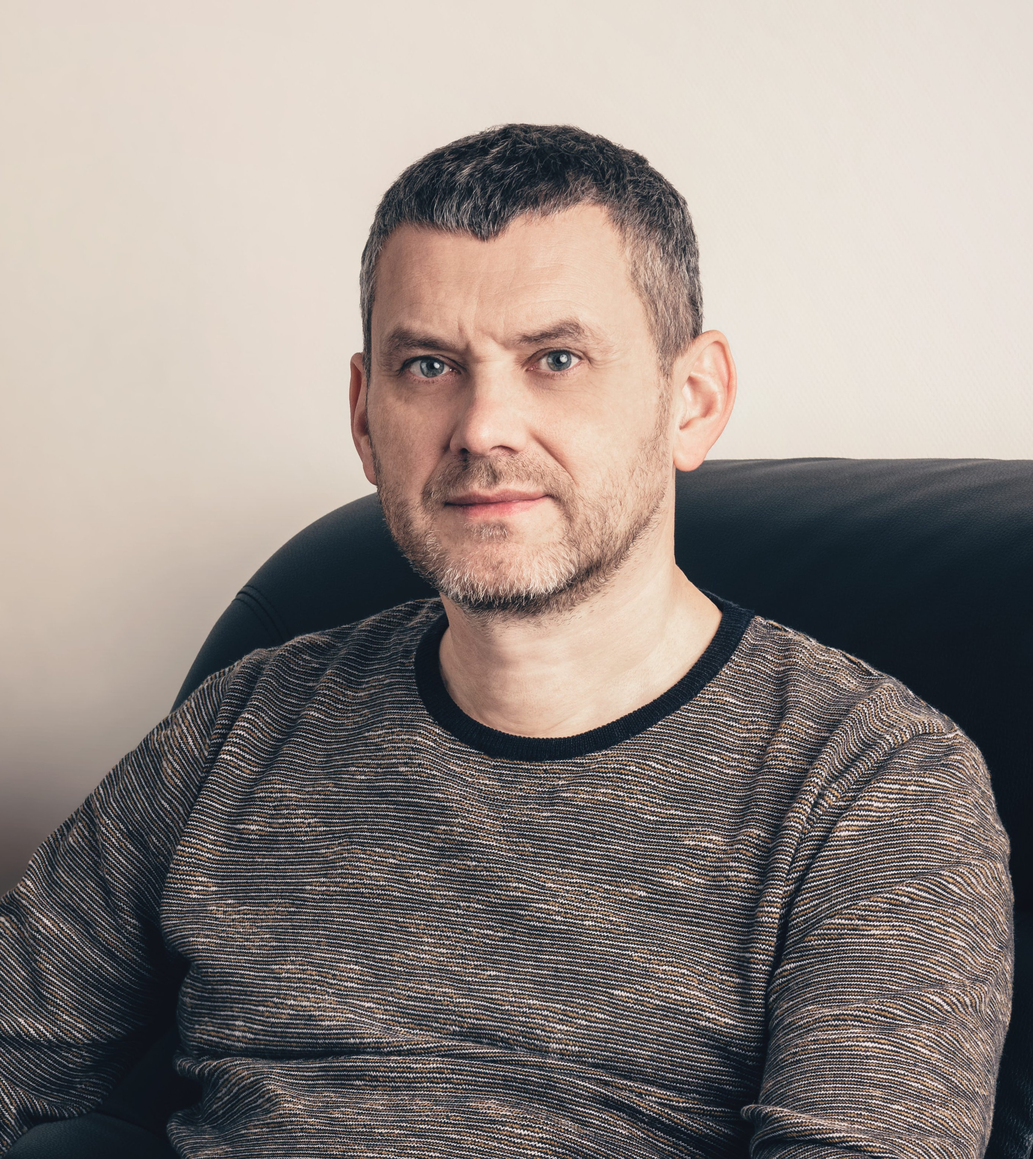
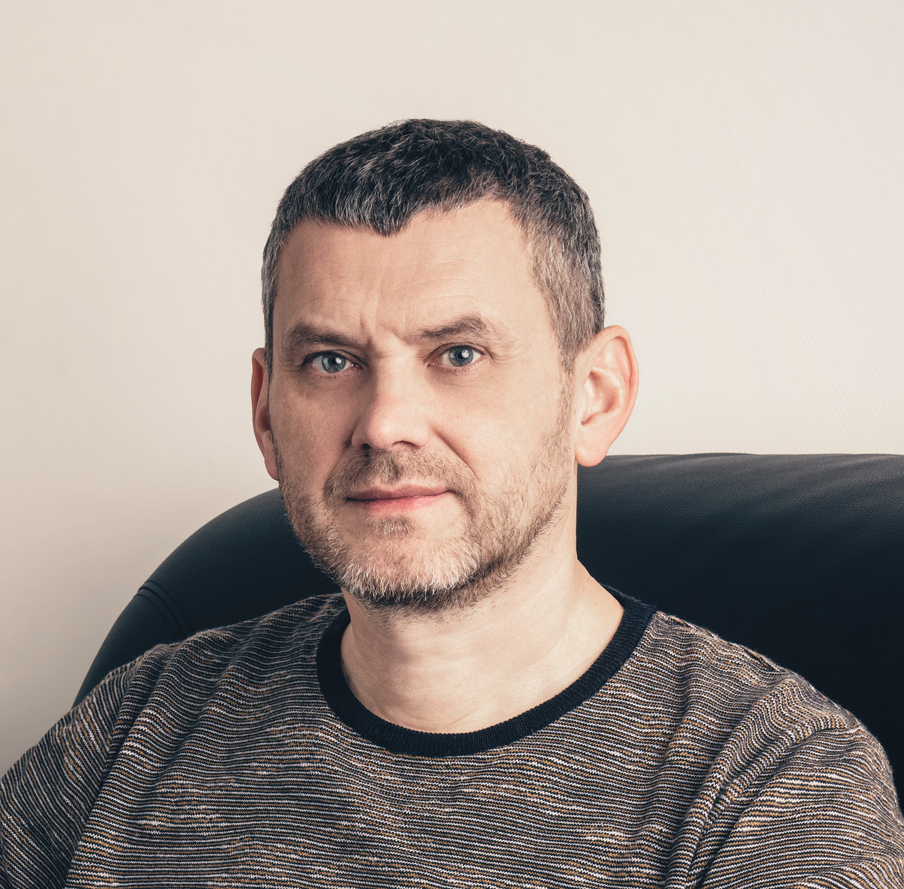
update content

diff --git a/src/pages/goalAndMission/goal.html b/src/pages/goalAndMission/goal.html
@@ -127,8 +127,8 @@
                 <div class="goal__info">
                     <h1 class="anotherTittle">Цель и миссия</h1>
                     <div class="goal__wrap">
-                        <div class="img"><img src="./027d56fc34d6af0f2c1281116e659585.jpg" alt="goal" width="600" height="320"></div>
                         <div class="text__wrap">
+                            <div class="img"><img src="./027d56fc34d6af0f2c1281116e659585.jpg" alt="goal" width="600" height="320"></div>
                             <div class="goal__inner">
                                 <h2 class="anotherSubtittle">Цель</h2>
                             <p class="anotherDescr">Деятельность, направленная на создание и поддержание благоприятных условий для функционирования и развития предприятий-участников, а также защиту их экономических интересов</p>
@@ -137,6 +137,21 @@
                                 <h2 class="anotherSubtittle">Миссия</h2>
                             <p class="anotherDescr">Развитие автомобильного рынка в Республике Беларусь через укрепление института официального автомобильного дилерства и создание белорусского объединения официальных автомобильных импортеров, дилеров и производителей.</p>
                             </div>
+                        </div>
+                        <div class="second__text__wrap">
+                            <div class="goal__inner">
+                                <h2 class="anotherSubtittle">Для достижения цели Ассоциация определяет следующие основные задачи и направления деятельности:</h2>
+                                <p class="anotherDescr"> - мониторинг законодательства в сфере автомобильного бизнеса и участие в подготовке предложений и изменений нормативных правовых актов, регулирующих деятельность автомобильных дилеров;</p>
+                                <p class="anotherDescr"> - представление интересов участников Ассоциации в предпринимательских союзах и объединениях;</p>
+                                <p class="anotherDescr"> - взаимодействие со средствами массовой информации по вопросам автомобильного рынка;</p>
+                                <p class="anotherDescr"> - организация и проведение обучающих семинаров, консультаций для специалистов компаний-членов Ассоциации;</p>
+                                <p class="anotherDescr"> - сбор, анализ и распространение среди членов Ассоциации статистической и аналитической информации по автомобильному рынку Республики Беларусь;</p>
+                                <p class="anotherDescr"> - информационного обмена с автомобильными Ассоциациями других государств;</p>
+                                <p class="anotherDescr"> - организационная поддержка проведения автомобильных выставок, конференций и конкурсов;</p>
+                                <p class="anotherDescr"> - участие в защите прав членов Ассоциации, представление их интересов в государственных и иных органах, а также в создаваемых ими рабочих группах и координационных советах;</p>
+                                <p class="anotherDescr"> - сотрудничество с органами государственного и местного управления по фактам нарушения законодательства Республики Беларусь в области предпринимательской деятельности, монополизма и недобросовестной конкуренции.</p>
+                            </div>
+                        </div>
 
 
                         </div>

diff --git a/src/pages/forPartners/forpartners.html b/src/pages/forPartners/forpartners.html
@@ -129,16 +129,16 @@
                         <div class="text__wrapper">
                             <div class="text__inner">
                                 <h2 class="anotherSubtittle">Обучение</h2>
-                                <p class="anotherDescr">Cовместная организация и проведение обучающих семинаров и консультаций для специалистов компаний-членов БАА с возможностью рекламы своей деятельности (продукции) в ходе таких мероприятий (с оплатой добровольных и (или) целевых взносов);</p>
+                                <p class="anotherDescr">Возможна совместная организация и проведение обучающих семинаров и консультаций для специалистов компаний-членов БАА с возможностью рекламы своей деятельности (продукции) в ходе таких мероприятий (с оплатой добровольных и (или) целевых взносов).</p>
                             </div>
                             <div class="text__inner">
                                 <h2 class="anotherSubtittle">Статистика</h2>
-                                <p class="anotherDescr">Приобретение у УП «БАА-Консалт» официальной статистической и аналитической информации по автомобильному рынку Республики Беларусь (для заключения договоров на приобретение официальной статистической и аналитической информации по автомобильному рынку Республики Беларусь обращайтесь в дочернее предприятие БАА – УП «БАА-Консалт» (г.Минск, пр.Жукова, 44, офис 513, e-mail: remark@remark.by).);</p>
+                                <p class="anotherDescr">Для заключения договоров на приобретение официальной статистической и аналитической информации по автомобильному рынку Республики Беларусь обращайтесь в дочернее предприятие БАА – УП «БАА-Консалт» (г.Минск, пр.Жукова, 44, офис 513,<br> e-mail: remark@remark.by).</p>
                                 <p class="anotherDescr">Предоставление информации о статистике продаж автомобилей государственным органам осуществляется по запросам на безвозмездной основе.</p>
                             </div>
                             <div class="text__inner">
                                 <h2 class="anotherSubtittle">Реклама</h2>
-                                <p class="anotherDescr">Возможность размещения своей рекламы на материалах статистики, реализуемой УП «БАА-Консалт» третьим лицам.</p>
+                                <p class="anotherDescr">Предлагаем рассмотреть возможность размещения своей рекламы на материалах статистики, реализуемой УП «БАА-Консалт» третьим лицам.</p>
                             </div>
                         </div>
                     </div>

diff --git a/src/pages/pressa/pressa.html b/src/pages/pressa/pressa.html
@@ -132,7 +132,7 @@
                             <h2 class="anotherSubtittle">Основные правила взаимодействия с СМИ:</h2>
                             <p class="anotherDescr">– официальные заявления от имени Ассоциации по вопросам автомобильного бизнеса может делать Председатель правления БАА;</p>
                             <p class="anotherDescr">– при цитировании и перепечатке материалов с сайта БАА ссылка на сайт обязательна;</p>
-                            <p class="anotherDescr">– анонс публичных мероприятий, планируемых к проведению в рамках Ассоциации и др.</p>
+                            <p class="anotherDescr">– анонс публичных мероприятий, планируемых к проведению в рамках Ассоциации, публикуется на настоящем сайте в разделе «Новости».</p>
                             <p class="anotherDescr">Для осуществления подписки на рассылку новостей БАА наведите курсор мыши на кнопку «НОВОСТИ» на главной странице сайта.</p>
                         </div>
                     </div>

diff --git a/src/pages/goalAndMission/goal.css b/src/pages/goalAndMission/goal.css
@@ -11,20 +11,28 @@
 }
 .goal__wrap {
     display: flex;
-    align-items: center;
     justify-content: space-between;
 }
 .goal__inner:first-child {
     margin-bottom: 40px;
 }
-.text__wrap {
-    padding-left: 50px;
-    max-width: 55%;
+.goal__wrap > .text__wrap {
+    max-width: 40%;
+
 }
 .img > img {
     object-fit: cover;
     width: 100%;
     height: 100%;
+}
+.img {
+    margin-bottom: 30px;
+}
+.second__text__wrap {
+    max-width: 55%;
+    padding: 25px;
+    border-radius: 5px;
+    background-color: #f1f1f1;
 }
 
 @media (max-width: 1024px) {
@@ -47,9 +55,13 @@
     .goal__wrap {
         flex-direction: column;
     }
-    .text__wrap{
+    .goal__wrap > .text__wrap {
         max-width: 100%;
-        padding-left: 0;
-        padding-top: 30px
+        padding-left: 20px;
+        padding-bottom: 30px;
+    }
+    .second__text__wrap {
+        max-width: 100%;
+        padding: 20px;
     }
 }

diff --git a/src/pages/management/management.html b/src/pages/management/management.html
@@ -183,7 +183,7 @@
                             <p class="description">ревизор БАА,<br>управляющий СООО «АТЛАНТ-М ФАРЦОЙГХАНДЕЛЬ»</p>
                         </div>
                         <div class="manager__card">
-                            <div class="img">
+                            <div class="img big__photo">
                                 <img src="./8.jpg" alt="">
                             </div>
                             <p class="anotherDescr">Ярота Дмитрий Иванович</p>

diff --git a/src/pages/management/management.css b/src/pages/management/management.css
@@ -41,6 +41,10 @@
     height: 100%;
     border-radius: 5px 5px 0 0 ;
 }
+.big__photo > img {
+    object-fit: cover;
+    object-position: 50% 60%;
+}
 .manager__card > .anotherDescr {
     font-weight: 600;
     margin-bottom: 15px;
